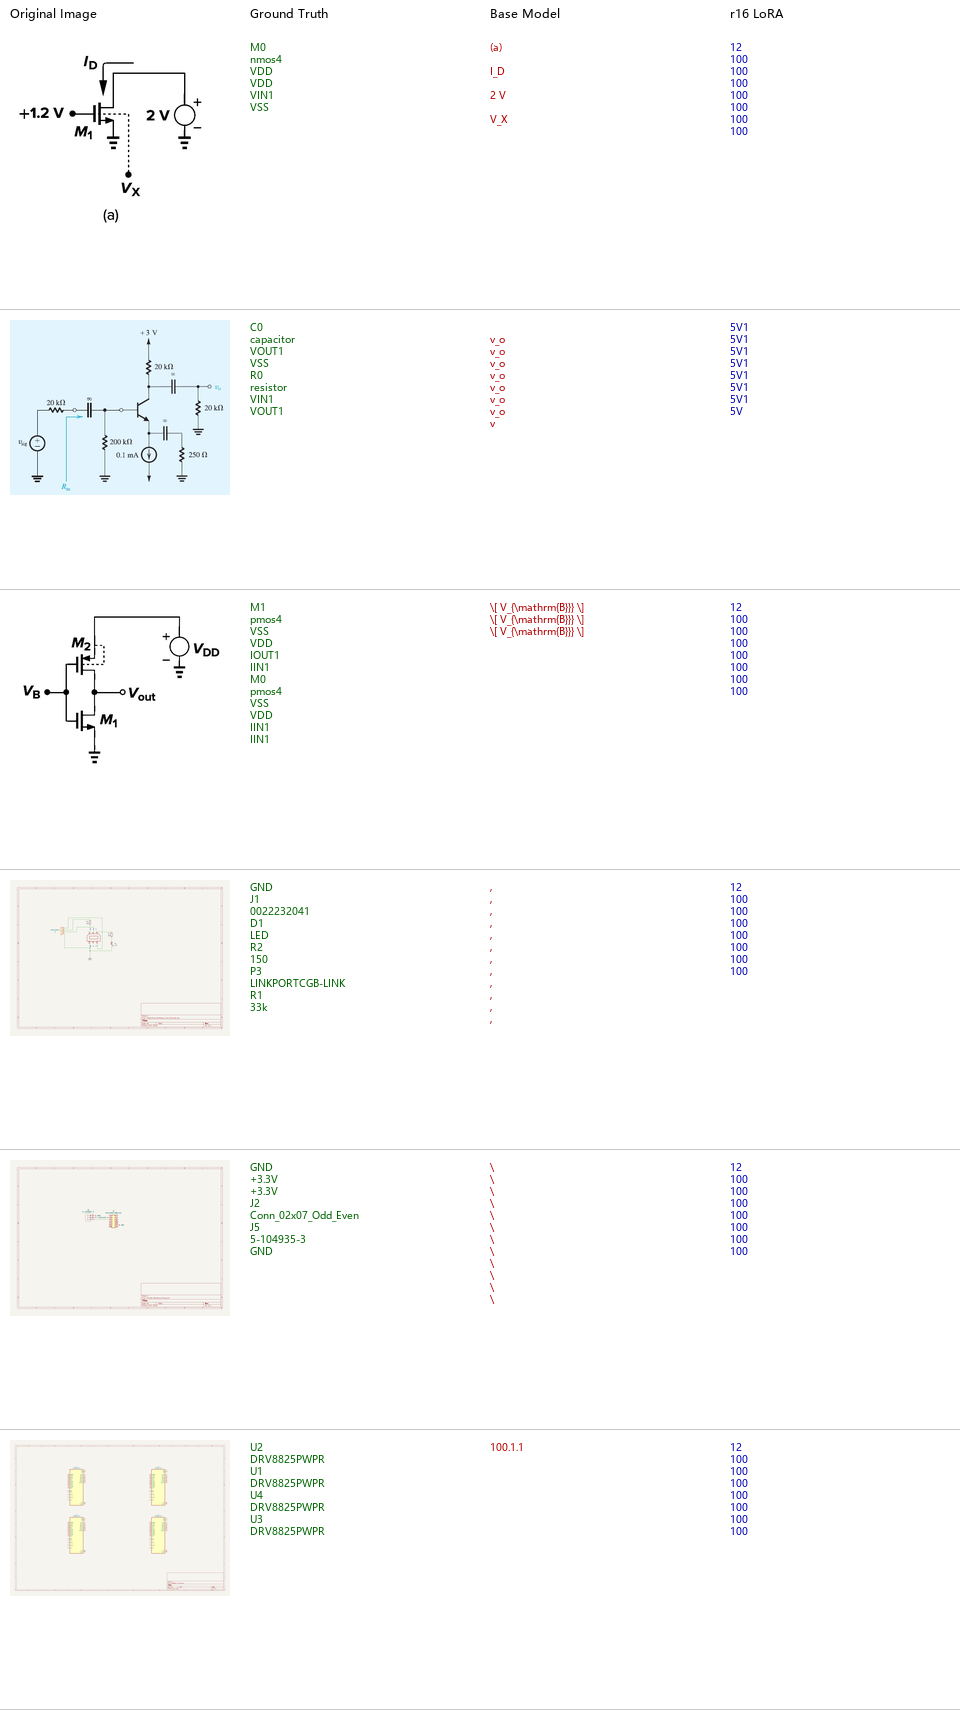
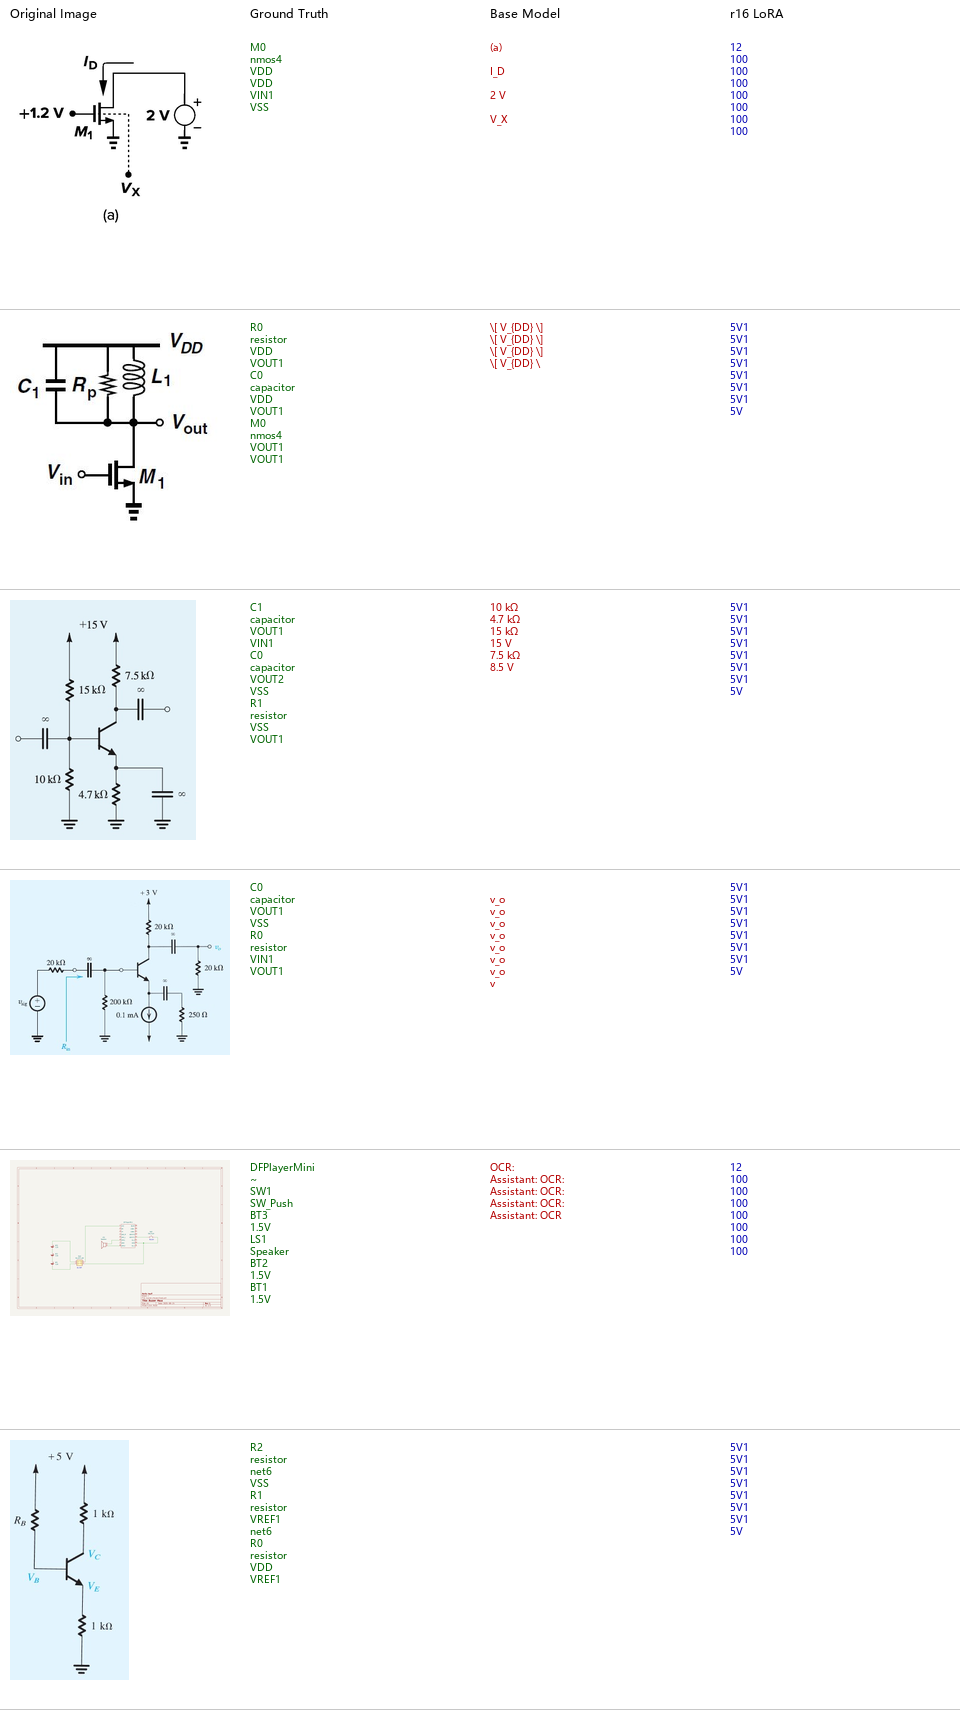
插入两幅可视化图片: 数据集样本 + 模型对比(base vs r16)

diff --git a/circuit-ocr-dataset/scripts/make_figures.py b/circuit-ocr-dataset/scripts/make_figures.py
@@ -67,8 +67,8 @@ def make_dataset_figure():
 
 def make_model_comparison():
     print('Generating model comparison...')
-    base_file = f'{DATASET_DIR}/results_base_easy50.jsonl'
-    r16_file = f'{DATASET_DIR}/results_easy50_r16e3.jsonl'
+    base_file = f'{DATASET_DIR}/results_base_easy50_final.jsonl'
+    r16_file = f'{DATASET_DIR}/results_r16_easy50_final.jsonl'
     for fp in [base_file, r16_file]:
         if not os.path.exists(fp): print(f'  MISSING: {fp}'); return
     with open(base_file, encoding='utf-8') as f: